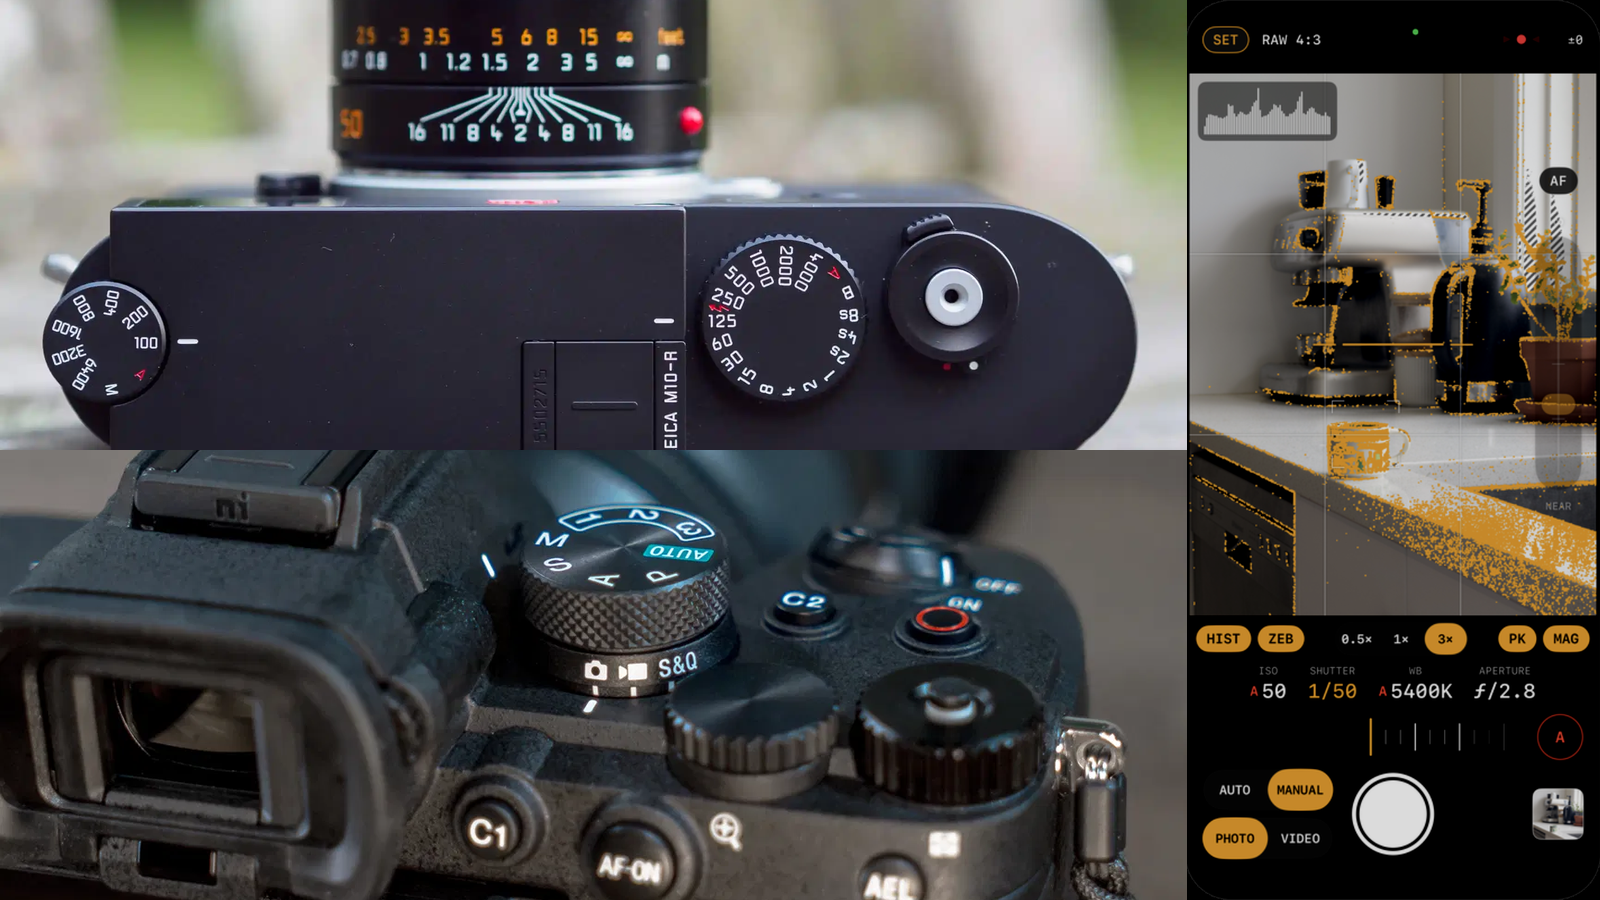
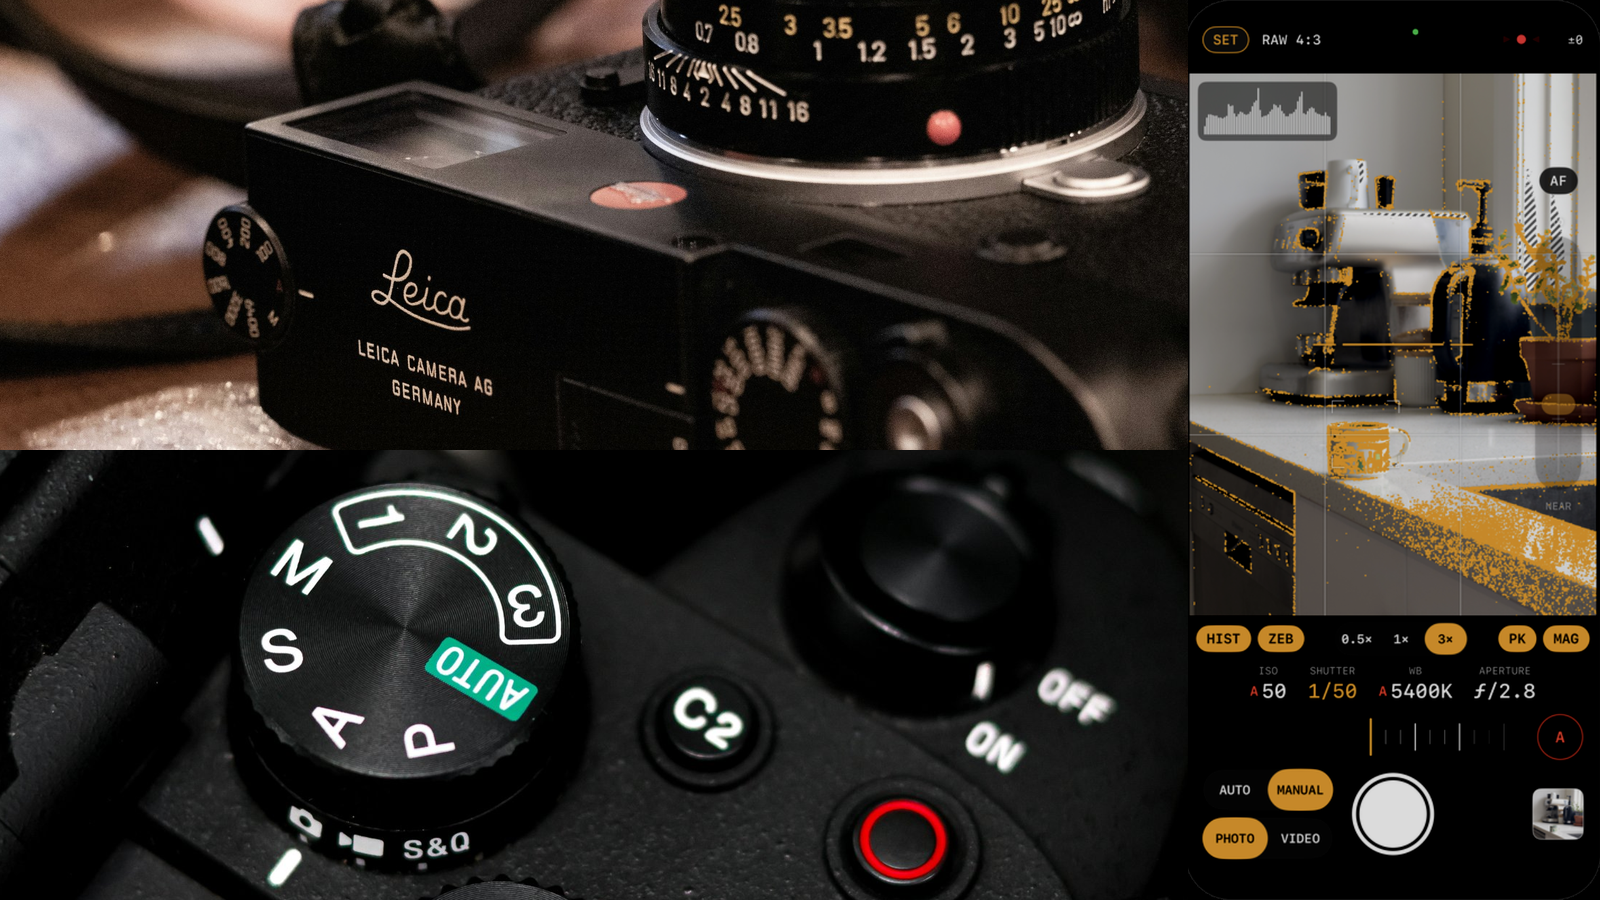
Replace Leica and Sony photos with Unsplash photos and add linked credits
- Use Hoseung Han's Leica M10 and ZhenYang Teo's Sony A7 IV photos
- Rebuild the post 1 camera-refs composite and the post 2 hero
- Add CaptionText so image captions can contain Markdown-style links
- Remove the old third-party reference photos

Claude-Session: https://claude.ai/code/session_01R9SXnrSyeTvFLHrW7kQhiF

diff --git a/src/components/CaptionText.tsx b/src/components/CaptionText.tsx
@@ -1,0 +1,23 @@
+import React from 'react'
+
+const LINK = /\[([^\]]+)\]\(([^)\s]+)\)/g
+
+// Image captions are written as plain strings (MDX attributes and frontmatter), so this turns
+// Markdown-style [text](url) links into anchors. Returns the original string when there are none.
+export const renderCaption = (caption?: string): React.ReactNode => {
+  if (!caption || !caption.includes('](')) return caption
+  const parts: React.ReactNode[] = []
+  let last = 0
+  for (const match of caption.matchAll(LINK)) {
+    const index = match.index ?? 0
+    if (index > last) parts.push(caption.slice(last, index))
+    parts.push(
+      <a key={index} href={match[2]} target='_blank' rel='noopener noreferrer'>
+        {match[1]}
+      </a>,
+    )
+    last = index + match[0].length
+  }
+  if (last < caption.length) parts.push(caption.slice(last))
+  return parts
+}

diff --git a/src/app/blog/[slug]/mdx-components.tsx b/src/app/blog/[slug]/mdx-components.tsx
@@ -1,6 +1,7 @@
 'use client'
 
 import { Container, ImageCaption, Quote, Section } from '@fcongson/lagom-ui'
+import { renderCaption } from 'components/CaptionText'
 import { FillImageBox } from 'components/FillImageBox'
 import { NextLinkAdapter } from 'components/NextLinkAdapter'
 import { isGif, resolveImagePath } from 'lib/image-utils'
@@ -42,7 +43,8 @@ const MdxImageCaption: React.FunctionComponent<{
     <ImageCaption
       emphasized={emphasized}
       fullwidth={fullwidth}
-      caption={caption}
+      // lagom-ui types `caption` as a string but renders it as children, so links in it work.
+      caption={renderCaption(caption) as string}
       image={
         isGif(image) ? (
           // eslint-disable-next-line @next/next/no-img-element

diff --git a/src/app/blog/[slug]/post-shell.tsx b/src/app/blog/[slug]/post-shell.tsx
@@ -1,6 +1,7 @@
 'use client'
 
 import { Container, ImageCaption, Section, useTheme } from '@fcongson/lagom-ui'
+import { renderCaption } from 'components/CaptionText'
 import { FillImageBox } from 'components/FillImageBox'
 import { Layout } from 'components/layouts'
 import { ScrollProgress } from 'components/ScrollProgress'
@@ -111,7 +112,7 @@ export const PostShell: React.FunctionComponent<{
                   <Image src={imagePath} alt={altText ?? title ?? ''} fill style={{ objectFit: 'cover' }} />
                 </FillImageBox>
               }
-              caption={imageCaption ?? ''}
+              caption={renderCaption(imageCaption ?? '') as string}
             />
           )}
         </PostHeader>
